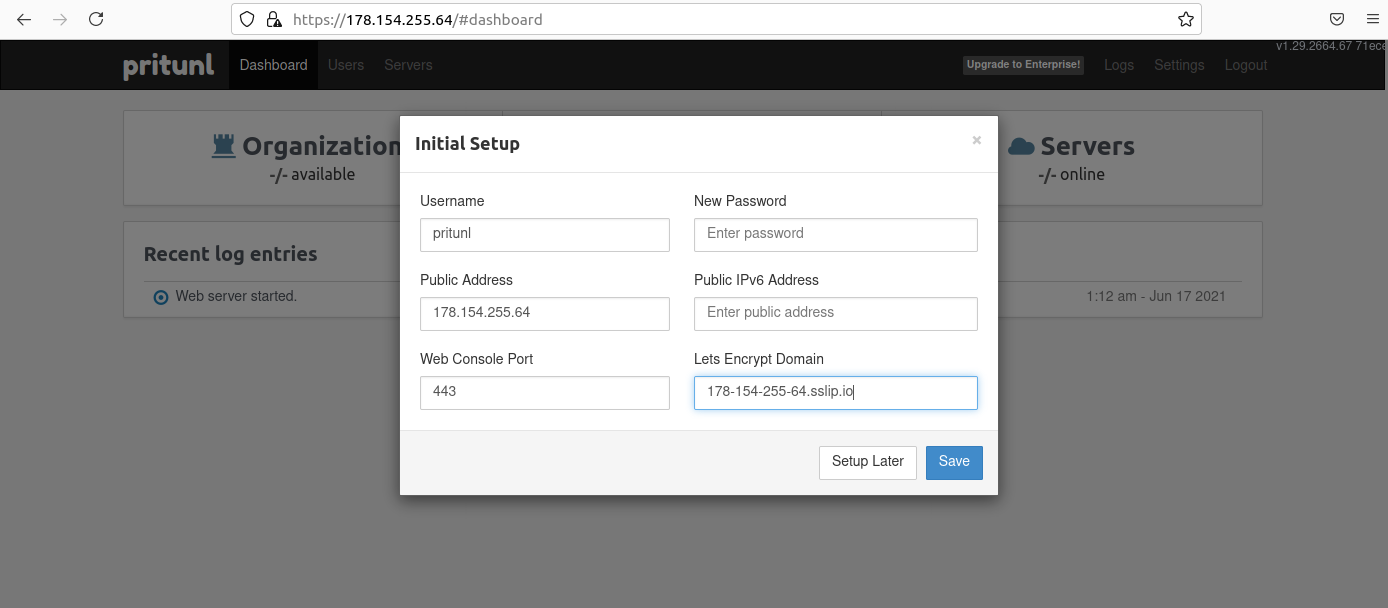
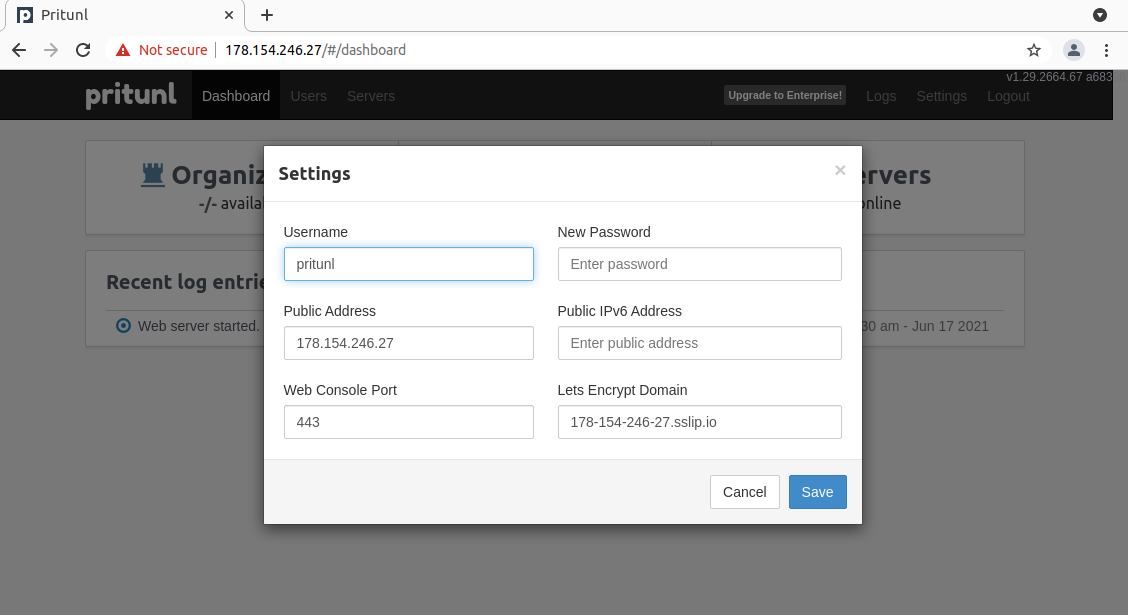
Cloud Bostion

Changed region(s): [[0.0, 0.0, 1.0, 0.875], [0.8067, 0.4688, 0.8688, 0.5]]

diff --git a/README.md b/README.md
@@ -11,14 +11,15 @@
 4. VPN-сервер для серверов Yandex.Cloud
 5. Дополнительное задание: валидный сертификат для панели управления VPNсервера
 
+## Решение
 <details>
-  <summary>## Решение</summary>
+  <summary>Решение</summary>
 
 ### Подключение через бастион хост
 
 ```
-bastion_IP = 178.154.255.64
-someinternalhost_IP = 10.128.0.23
+bastion_IP = 178.154.246.27
+someinternalhost_IP = 10.128.0.24
 ```
 
 
@@ -86,9 +87,9 @@ https://<адрес bastion VM>/setup
 
 ### 5. Дополнительное задание: валидный сертификат для панели управления VPNсервера
 
-Домен для bostion - 178-154-255-64.sslip.io
+Домен для bostion - 178-154-246-27.sslip.io
 
-Доступ к printunl - https://178-154-255-64.sslip.io
+Доступ к printunl - https://178-154-246-27.sslip.io
 
 ![Image 1](images/bostion1.png)
 
